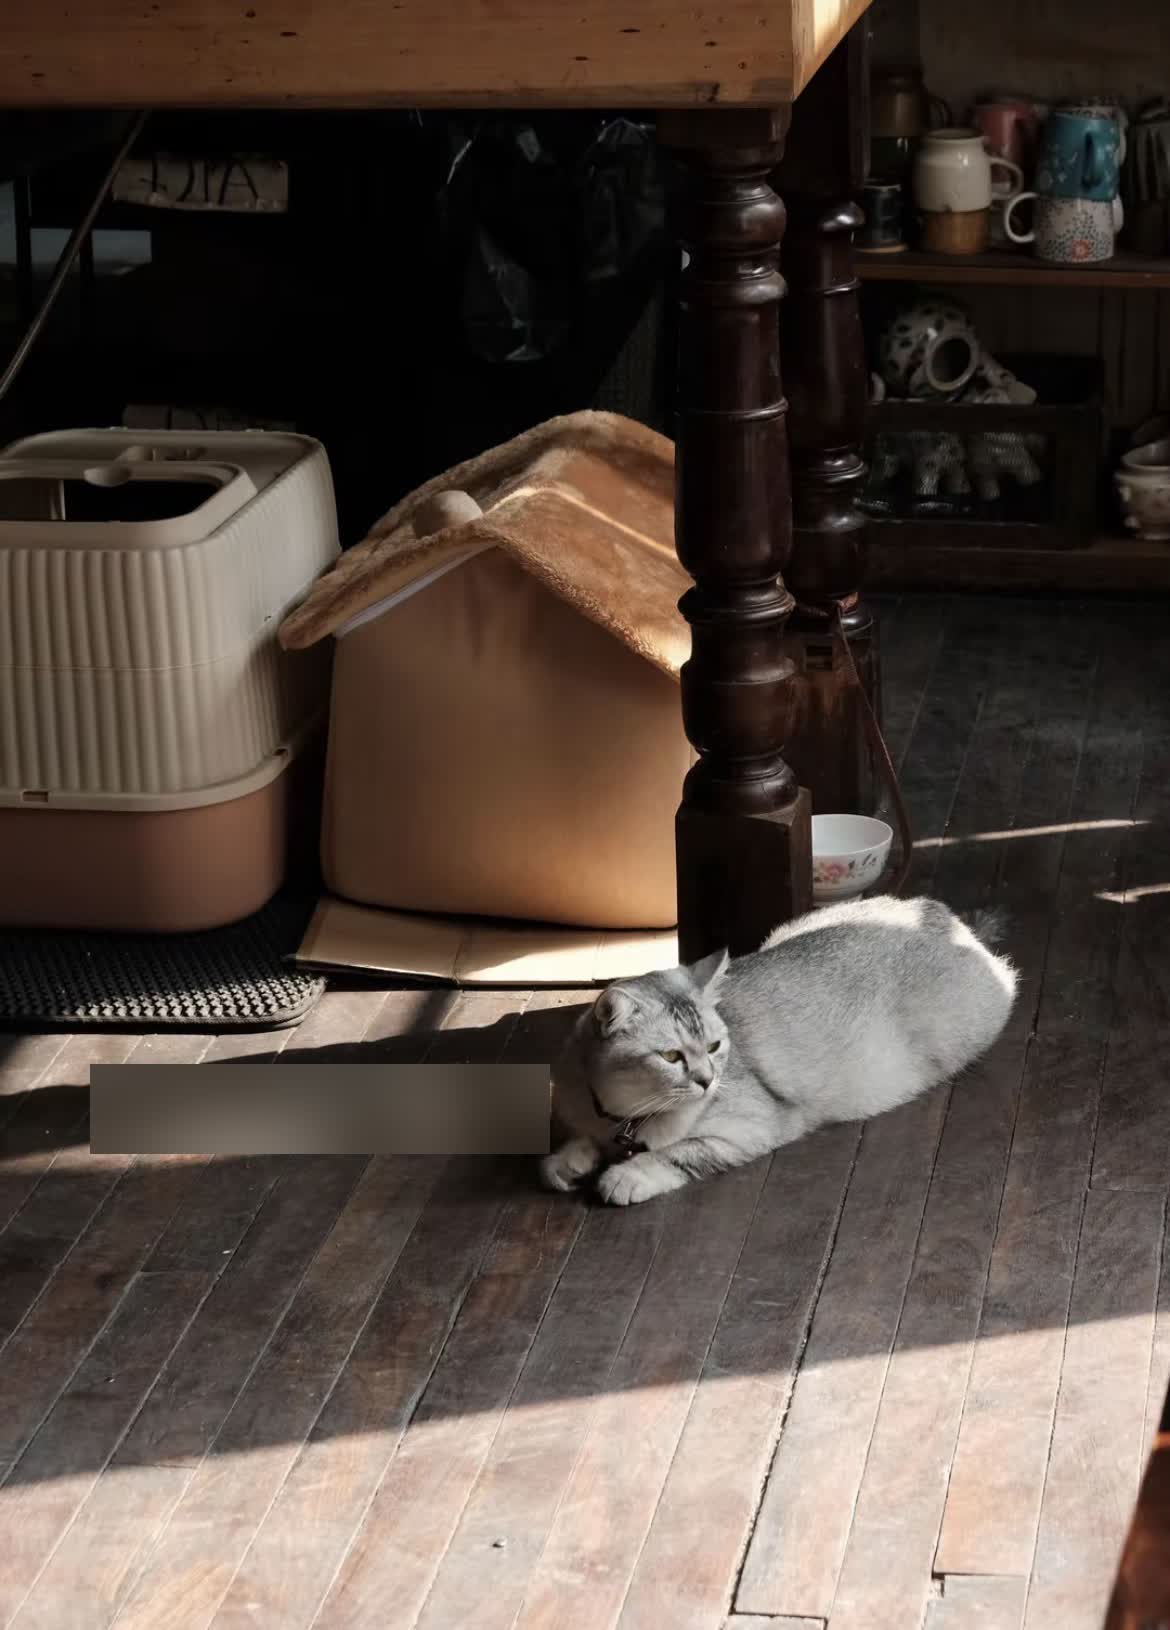
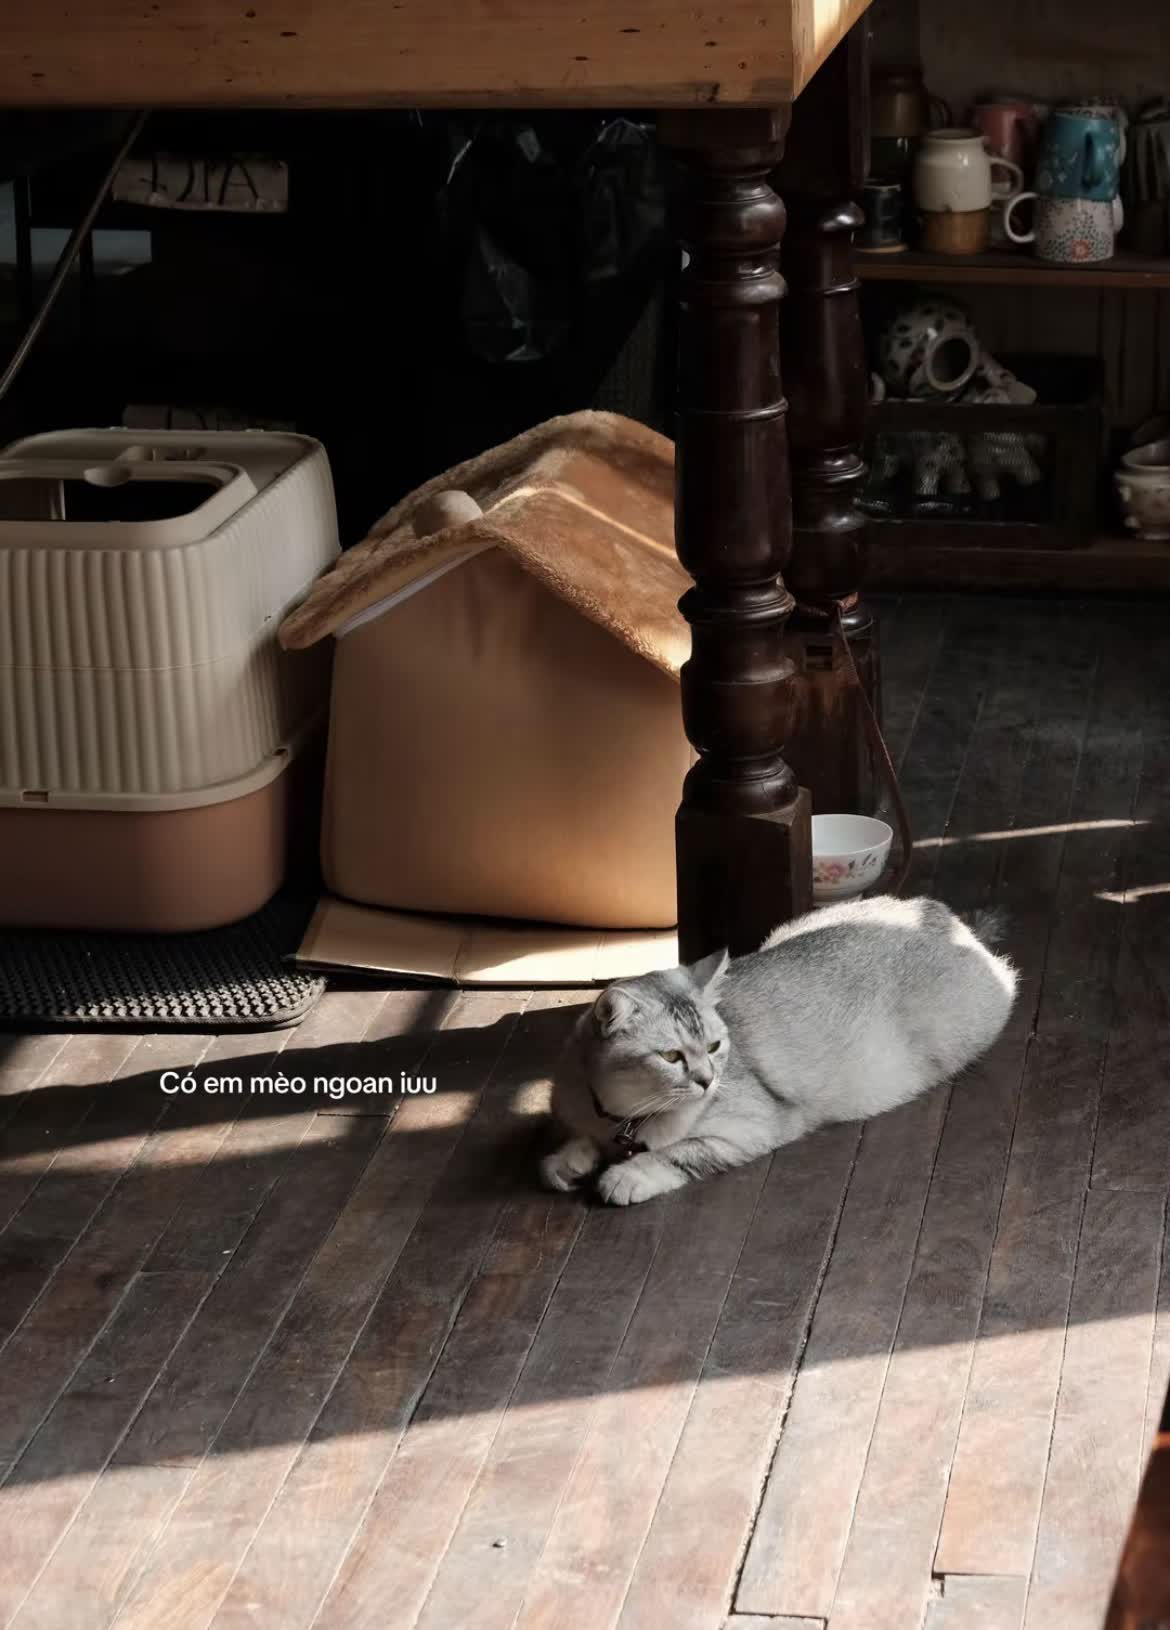
Center/enlarge hero text, slow animations further, keep original caption on bg photo, tweak copy

Changed region(s): [[0.0615, 0.6442, 0.4923, 0.7055]]

diff --git a/style.css b/style.css
@@ -62,7 +62,7 @@ body{
   align-items:center;
   justify-content:center;
 }
-.music-toggle.playing{ animation: icon-pulse 2s ease-in-out infinite; }
+.music-toggle.playing{ animation: icon-pulse 3.5s ease-in-out infinite; }
 
 /* ---------- intro ---------- */
 .intro{
@@ -101,14 +101,14 @@ body{
 }
 .sun{
   font-size:3rem;
-  animation: spin 8s linear infinite;
+  animation: spin 14s linear infinite;
   display:inline-block;
 }
 @keyframes spin{ from{transform:rotate(0)} to{transform:rotate(360deg)} }
 .balloon{
   position:absolute;
   font-size:2rem;
-  animation: float 4s ease-in-out infinite;
+  animation: float 6.5s ease-in-out infinite;
 }
 .b1{ top:-20px; left:-10px; animation-delay:0s;}
 .b2{ top:-30px; right:-6px; animation-delay:1.2s;}
@@ -151,22 +151,27 @@ main{ position:relative; z-index:2; }
 .hero-fade{
   position:absolute;
   inset:0;
-  background: linear-gradient(180deg, rgba(43,24,10,0.3) 0%, rgba(43,24,10,0.05) 20%, rgba(43,24,10,0.1) 60%, rgba(43,24,10,0.85) 92%, var(--cream) 100%);
+  background: linear-gradient(180deg, rgba(43,24,10,0.35) 0%, rgba(43,24,10,0.15) 50%, rgba(43,24,10,0.35) 85%, var(--cream) 100%);
   pointer-events:none;
 }
 .hero-content{
   position:absolute;
-  left:0; right:0; bottom:0;
-  padding:24px 20px 36px;
+  inset:0;
+  display:flex;
+  flex-direction:column;
+  align-items:center;
+  justify-content:center;
+  padding:24px 20px 80px;
   color:#fff7ec;
 }
-.hero-content h1{ color:#fff7ec; margin:0 0 10px; font-size:1.9rem; line-height:1.3; }
-.hero-content .subtitle{ color:#ffe3c7; margin:0; font-weight:600; letter-spacing:1px; }
-.hero-content .scroll-hint{ color:#ffe3c7; margin-top:20px; }
+.hero-content h1{ color:#fff7ec; margin:0 0 16px; font-size:2.8rem; line-height:1.3; text-shadow:0 4px 18px rgba(0,0,0,0.35); }
+.hero-content .subtitle{ color:#ffe3c7; margin:0; font-weight:700; letter-spacing:1.5px; font-size:1.3rem; }
+.hero-content .scroll-hint{ color:#ffe3c7; margin-top:30px; font-size:1.1rem; }
+.hero-content .hero-emoji{ font-size:3.6rem; margin-bottom:18px; }
 .hero-emoji{
   font-size:2.6rem;
   margin-bottom:10px;
-  animation: wiggle 2.4s ease-in-out infinite;
+  animation: wiggle 4s ease-in-out infinite;
 }
 @keyframes wiggle{
   0%,100%{ transform: rotate(-6deg); }
@@ -182,7 +187,7 @@ main{ position:relative; z-index:2; }
   margin-top:26px;
   color:#c17f4f;
   font-size:0.9rem;
-  animation: bob 1.6s ease-in-out infinite;
+  animation: bob 2.8s ease-in-out infinite;
 }
 @keyframes bob{
   0%,100%{ transform: translateY(0); }
@@ -237,7 +242,7 @@ main{ position:relative; z-index:2; }
   box-shadow: 0 8px 18px rgba(0,0,0,0.18);
   border:4px solid #fff;
   z-index:2;
-  animation: icon-pulse 3s ease-in-out infinite;
+  animation: icon-pulse 4.5s ease-in-out infinite;
 }
 @keyframes icon-pulse{
   0%,100%{ transform: scale(1); }
@@ -293,7 +298,7 @@ main{ position:relative; z-index:2; }
 .mini-scene .tower{
   position:absolute; top:16px; left:50%; transform:translateX(-50%);
   font-size:1.5rem;
-  animation: tower-float 4.5s ease-in-out infinite;
+  animation: tower-float 7s ease-in-out infinite;
 }
 @keyframes tower-float{
   0%,100%{ transform: translateX(-50%) translateY(0); }
@@ -302,12 +307,12 @@ main{ position:relative; z-index:2; }
 .mini-scene .water{
   position:absolute; bottom:0; left:0; right:0; height:30px;
   background: repeating-linear-gradient(90deg, rgba(255,255,255,.5) 0 10px, transparent 10px 20px);
-  animation: ripple 3s linear infinite;
+  animation: ripple 5s linear infinite;
 }
 @keyframes ripple{ from{background-position-x:0;} to{background-position-x:40px;} }
 .mini-scene .leaf{
   position:absolute; top:-10px; font-size:1.3rem;
-  animation: leaf-fall 4s ease-in infinite;
+  animation: leaf-fall 6.5s ease-in infinite;
 }
 .l1{ left:15%; animation-delay:0s; }
 .l2{ left:50%; animation-delay:1.3s; }
@@ -320,7 +325,7 @@ main{ position:relative; z-index:2; }
 .mini-scene .swan{
   position:absolute; bottom:28px; right:20%;
   font-size:1.6rem;
-  animation: drift 5s ease-in-out infinite;
+  animation: drift 8s ease-in-out infinite;
 }
 @keyframes drift{
   0%,100%{ transform: translateX(0); }
@@ -329,7 +334,7 @@ main{ position:relative; z-index:2; }
 .mini-scene .sun-ray{
   position:absolute; top:8px; right:14px;
   font-size:1.4rem;
-  animation: sun-glow 3s ease-in-out infinite;
+  animation: sun-glow 5s ease-in-out infinite;
 }
 @keyframes sun-glow{
   0%,100%{ transform: scale(1) rotate(0deg); filter: drop-shadow(0 0 2px #fff6c8); }
@@ -337,7 +342,7 @@ main{ position:relative; z-index:2; }
 }
 .mini-scene .flower{
   position:absolute; bottom:6px; font-size:1.1rem;
-  animation: sway 3.4s ease-in-out infinite;
+  animation: sway 5.5s ease-in-out infinite;
 }
 .f1{ left:6%; animation-delay:0s; }
 .f2{ left:30%; animation-delay:.8s; }
@@ -359,7 +364,7 @@ main{ position:relative; z-index:2; }
   background: rgba(255,255,255,0.8);
   border-radius:4px;
   filter: blur(1px);
-  animation: steam-rise 2.4s ease-in-out infinite;
+  animation: steam-rise 3.8s ease-in-out infinite;
 }
 .s1{ left:-14px; animation-delay:0s;}
 .s2{ left:0px; animation-delay:.5s;}
@@ -379,7 +384,7 @@ main{ position:relative; z-index:2; }
 .mini-scene .hearts span{
   display:inline-block;
   font-size:1.2rem;
-  animation: heart-pop 2s ease-in-out infinite;
+  animation: heart-pop 3.2s ease-in-out infinite;
 }
 .mini-scene .hearts span:nth-child(2){ animation-delay:.3s; }
 .mini-scene .hearts span:nth-child(3){ animation-delay:.6s; }
@@ -395,12 +400,12 @@ main{ position:relative; z-index:2; }
 .mini-scene .road-line{
   position:absolute; bottom:18px; left:0; right:0; height:3px;
   background: repeating-linear-gradient(90deg, #c98b55 0 14px, transparent 14px 26px);
-  animation: road-move 2.2s linear infinite;
+  animation: road-move 3.5s linear infinite;
 }
 @keyframes road-move{ from{background-position-x:0;} to{background-position-x:-40px;} }
 .mini-scene .car{
   position:absolute; bottom:20px; font-size:1.9rem;
-  animation: drive 7s ease-in-out infinite;
+  animation: drive 11s ease-in-out infinite;
 }
 @keyframes drive{
   0%{ left:-10%; transform: scaleX(-1); }
@@ -412,7 +417,7 @@ main{ position:relative; z-index:2; }
 .mini-scene .car.moto{ font-size:1.7rem; animation-duration:6s; }
 .mini-scene .cloud{
   position:absolute; top:10px; font-size:1.2rem; opacity:0.8;
-  animation: cloud-drift 6s linear infinite;
+  animation: cloud-drift 10s linear infinite;
 }
 .cloud.c1{ top:8px; animation-delay:0s; }
 .cloud.c2{ top:22px; animation-delay:2.5s; }
@@ -427,7 +432,7 @@ main{ position:relative; z-index:2; }
 }
 .mini-scene .walker{
   position:absolute; bottom:18px; font-size:1.8rem;
-  animation: stroll 7.5s ease-in-out infinite;
+  animation: stroll 12s ease-in-out infinite;
 }
 @keyframes stroll{
   0%{ left:-5%; transform: scaleX(1) translateY(0); }
@@ -445,7 +450,7 @@ main{ position:relative; z-index:2; }
 }
 .mini-scene.walk .leaf{
   position:absolute; top:-10px; font-size:1.1rem;
-  animation: leaf-fall 4.5s ease-in infinite;
+  animation: leaf-fall 7s ease-in infinite;
 }
 .mini-scene.walk .l1{ left:25%; animation-delay:.5s; }
 .mini-scene.walk .l2{ left:70%; animation-delay:2s; }
@@ -456,11 +461,11 @@ main{ position:relative; z-index:2; }
 }
 .mini-scene.night .moon{
   position:absolute; top:8px; right:14px; font-size:1.5rem;
-  animation: sun-glow 3.5s ease-in-out infinite;
+  animation: sun-glow 5.5s ease-in-out infinite;
 }
 .mini-scene.night .star{
   position:absolute; font-size:0.8rem;
-  animation: twinkle 2s ease-in-out infinite;
+  animation: twinkle 3.2s ease-in-out infinite;
 }
 .st1{ top:12px; left:16%; animation-delay:0s; }
 .st2{ top:28px; left:40%; animation-delay:.6s; }
@@ -471,7 +476,7 @@ main{ position:relative; z-index:2; }
 }
 .mini-scene.night .lantern{
   position:absolute; bottom:14px; font-size:1.3rem;
-  animation: lantern-sway 2.6s ease-in-out infinite;
+  animation: lantern-sway 4.2s ease-in-out infinite;
 }
 .la1{ left:14%; animation-delay:0s; }
 .la2{ right:14%; animation-delay:1s; }
@@ -481,7 +486,7 @@ main{ position:relative; z-index:2; }
 }
 .mini-scene.night .walker{
   position:absolute; bottom:12px; font-size:1.6rem;
-  animation: stroll 8s ease-in-out infinite;
+  animation: stroll 12.5s ease-in-out infinite;
   filter: brightness(1.3);
 }
 
@@ -493,21 +498,21 @@ main{ position:relative; z-index:2; }
 }
 .mini-scene.ocscene .shells{
   font-size:1.6rem;
-  animation: icon-pulse 2.4s ease-in-out infinite;
+  animation: icon-pulse 3.8s ease-in-out infinite;
 }
 .mini-scene.ocscene .steam{
   position:absolute; bottom:40px; width:4px; height:18px;
   background: rgba(255,255,255,0.75);
   border-radius:4px;
   filter: blur(1px);
-  animation: steam-rise 2.2s ease-in-out infinite;
+  animation: steam-rise 3.5s ease-in-out infinite;
 }
 .mini-scene.ocscene .s1{ left:38%; animation-delay:0s; }
 .mini-scene.ocscene .s2{ left:50%; animation-delay:.5s; }
 .mini-scene.ocscene .s3{ left:62%; animation-delay:1s; }
 .mini-scene.ocscene .chili{
   position:absolute; font-size:1.1rem;
-  animation: heart-pop 2.4s ease-in-out infinite;
+  animation: heart-pop 3.8s ease-in-out infinite;
 }
 .mini-scene.ocscene .c1{ left:16%; bottom:14px; animation-delay:.2s; }
 .mini-scene.ocscene .c2{ right:16%; bottom:14px; animation-delay:1s; }
@@ -525,7 +530,7 @@ main{ position:relative; z-index:2; }
 .outro-emoji{
   font-size:2.4rem;
   margin-bottom:10px;
-  animation: wiggle 2.4s ease-in-out infinite;
+  animation: wiggle 4s ease-in-out infinite;
 }
 .outro h2{
   color:var(--orange-dark);

diff --git a/index.html b/index.html
@@ -166,7 +166,7 @@
         <div class="stop-card">
           <span class="stop-time">từ 20:00</span>
           <h3>Ốc nóng Hà Trang</h3>
-          <p>Chốt bữa tối ở đây. Nghe nói ăn cay, Hmai liệu cơm gắp mắm nhé.</p>
+          <p>Đức Anh đề xuất ăn tối ở đây, nếu Hmai chưa mún về. Nghe nói ăn cay, Hmai liệu cơm gắp mắm nhé.</p>
           <div class="mini-scene ocscene">
             <div class="steam s1"></div>
             <div class="steam s2"></div>
